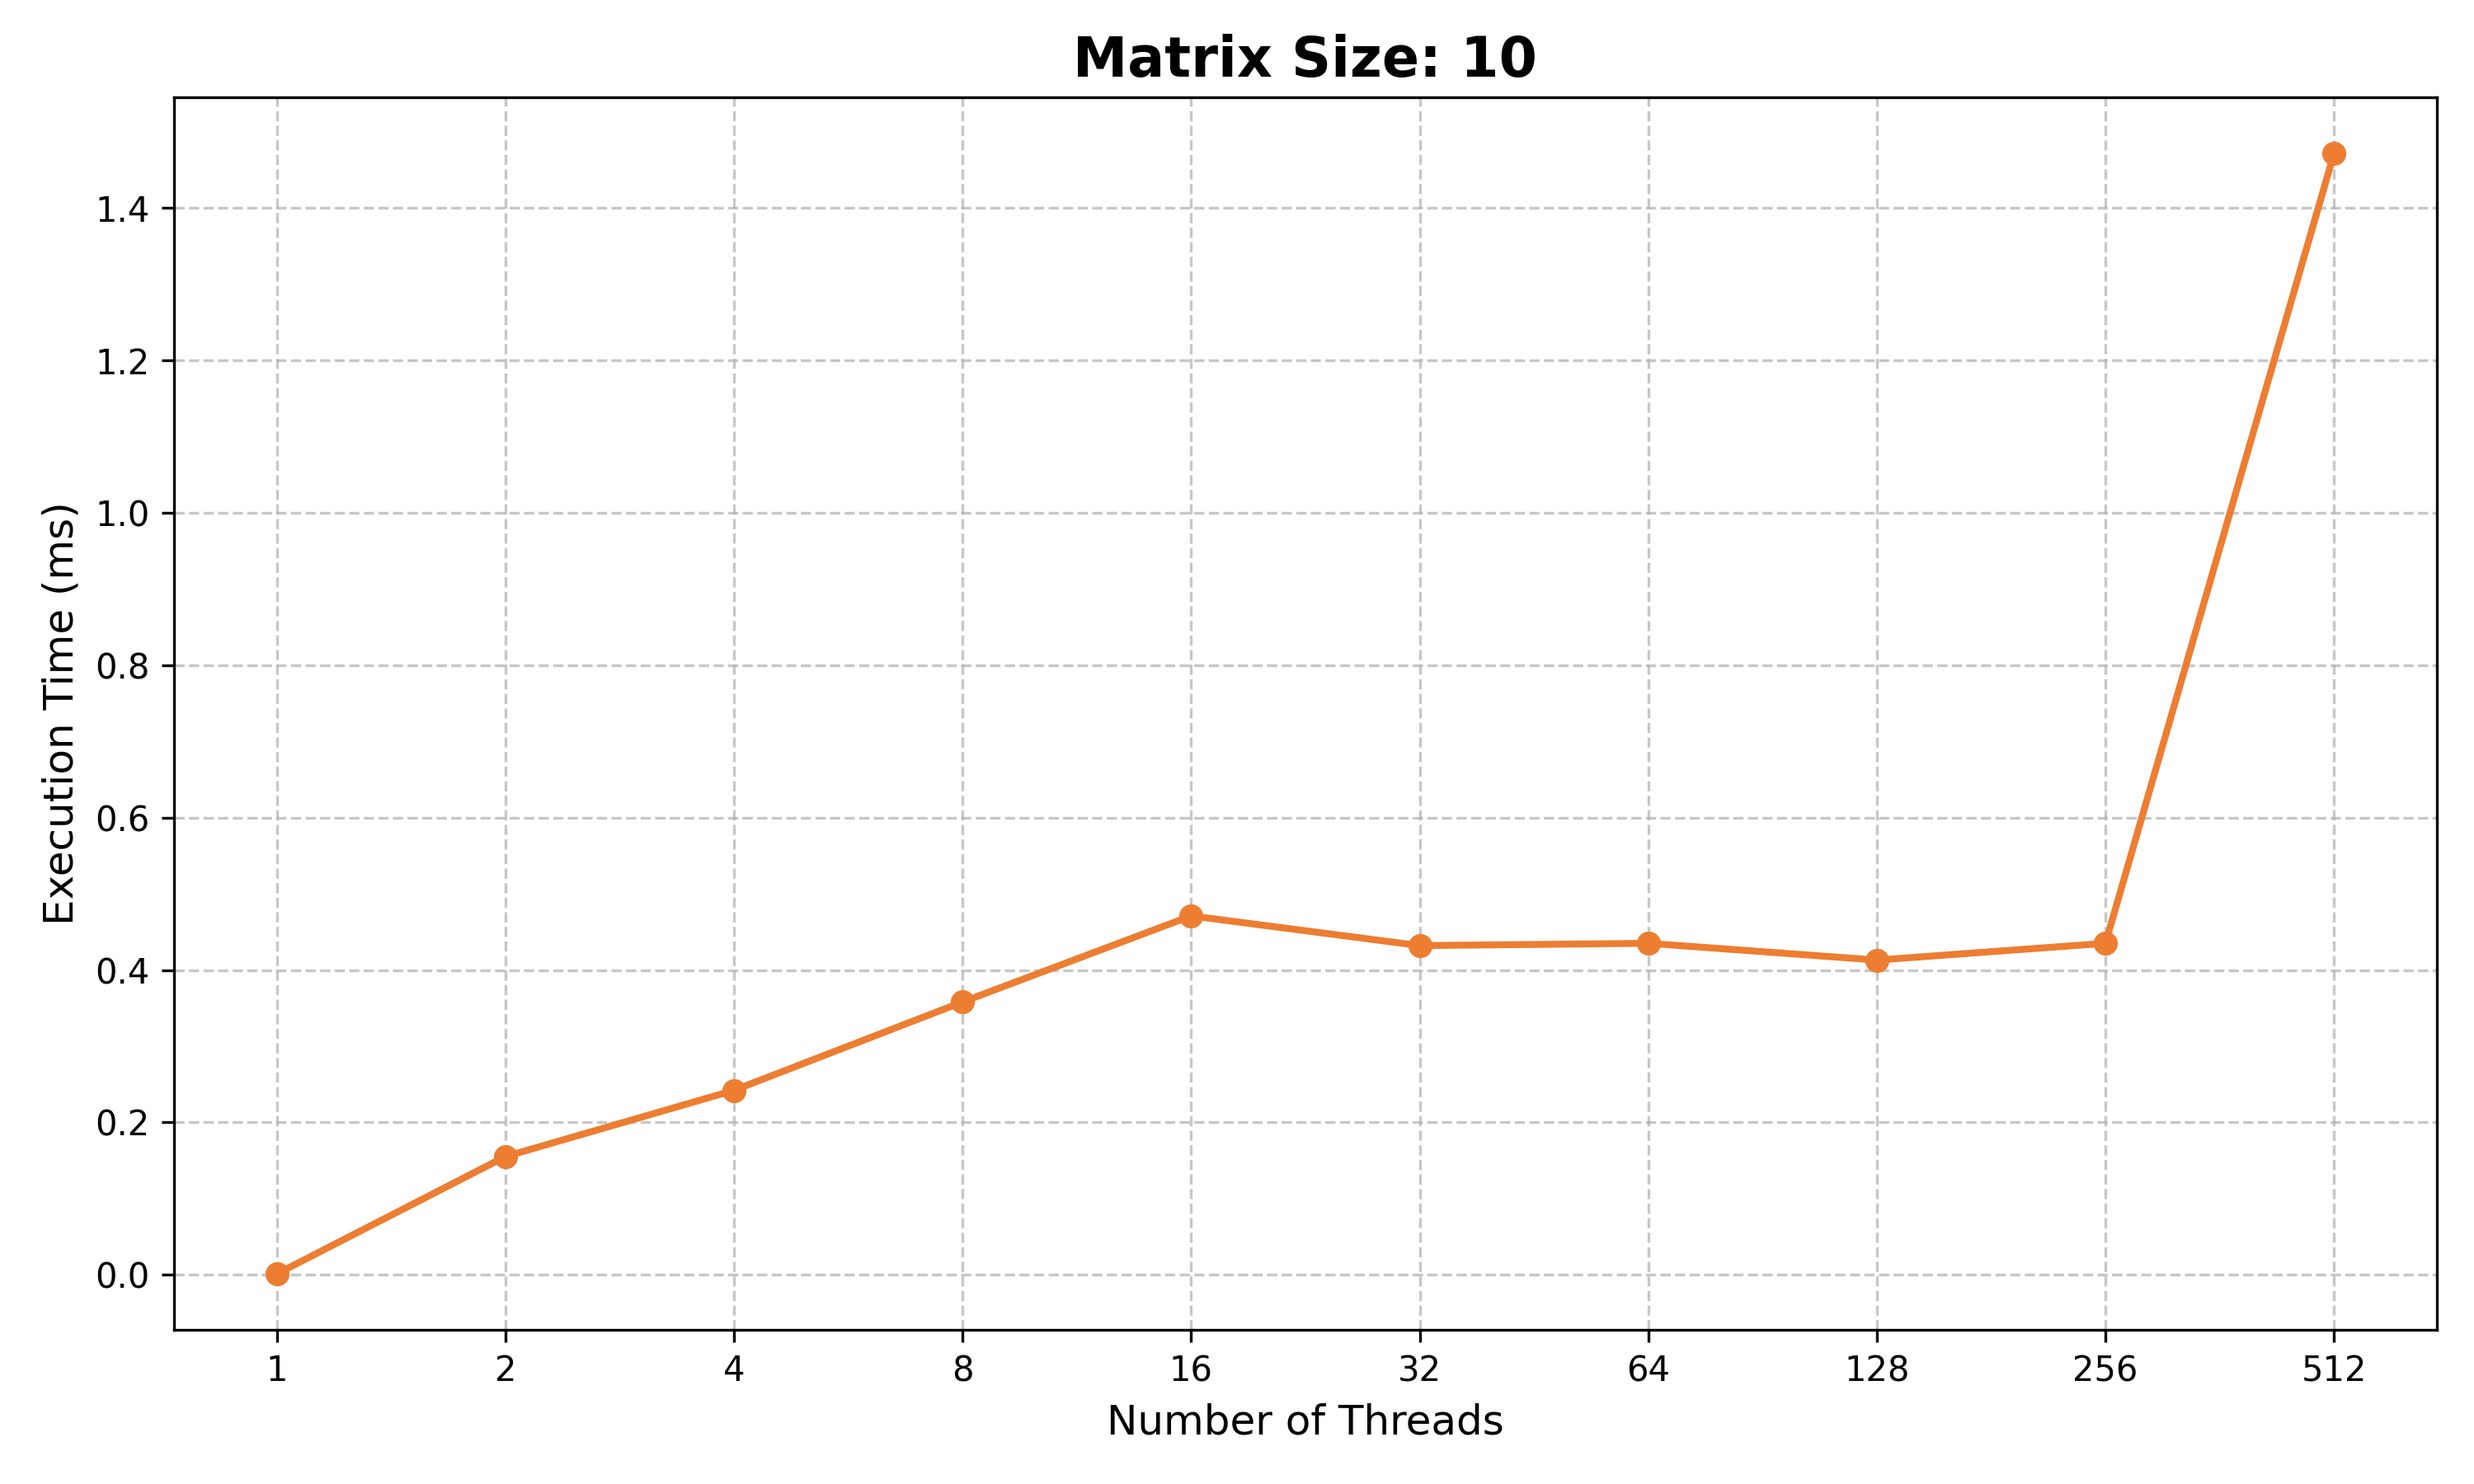
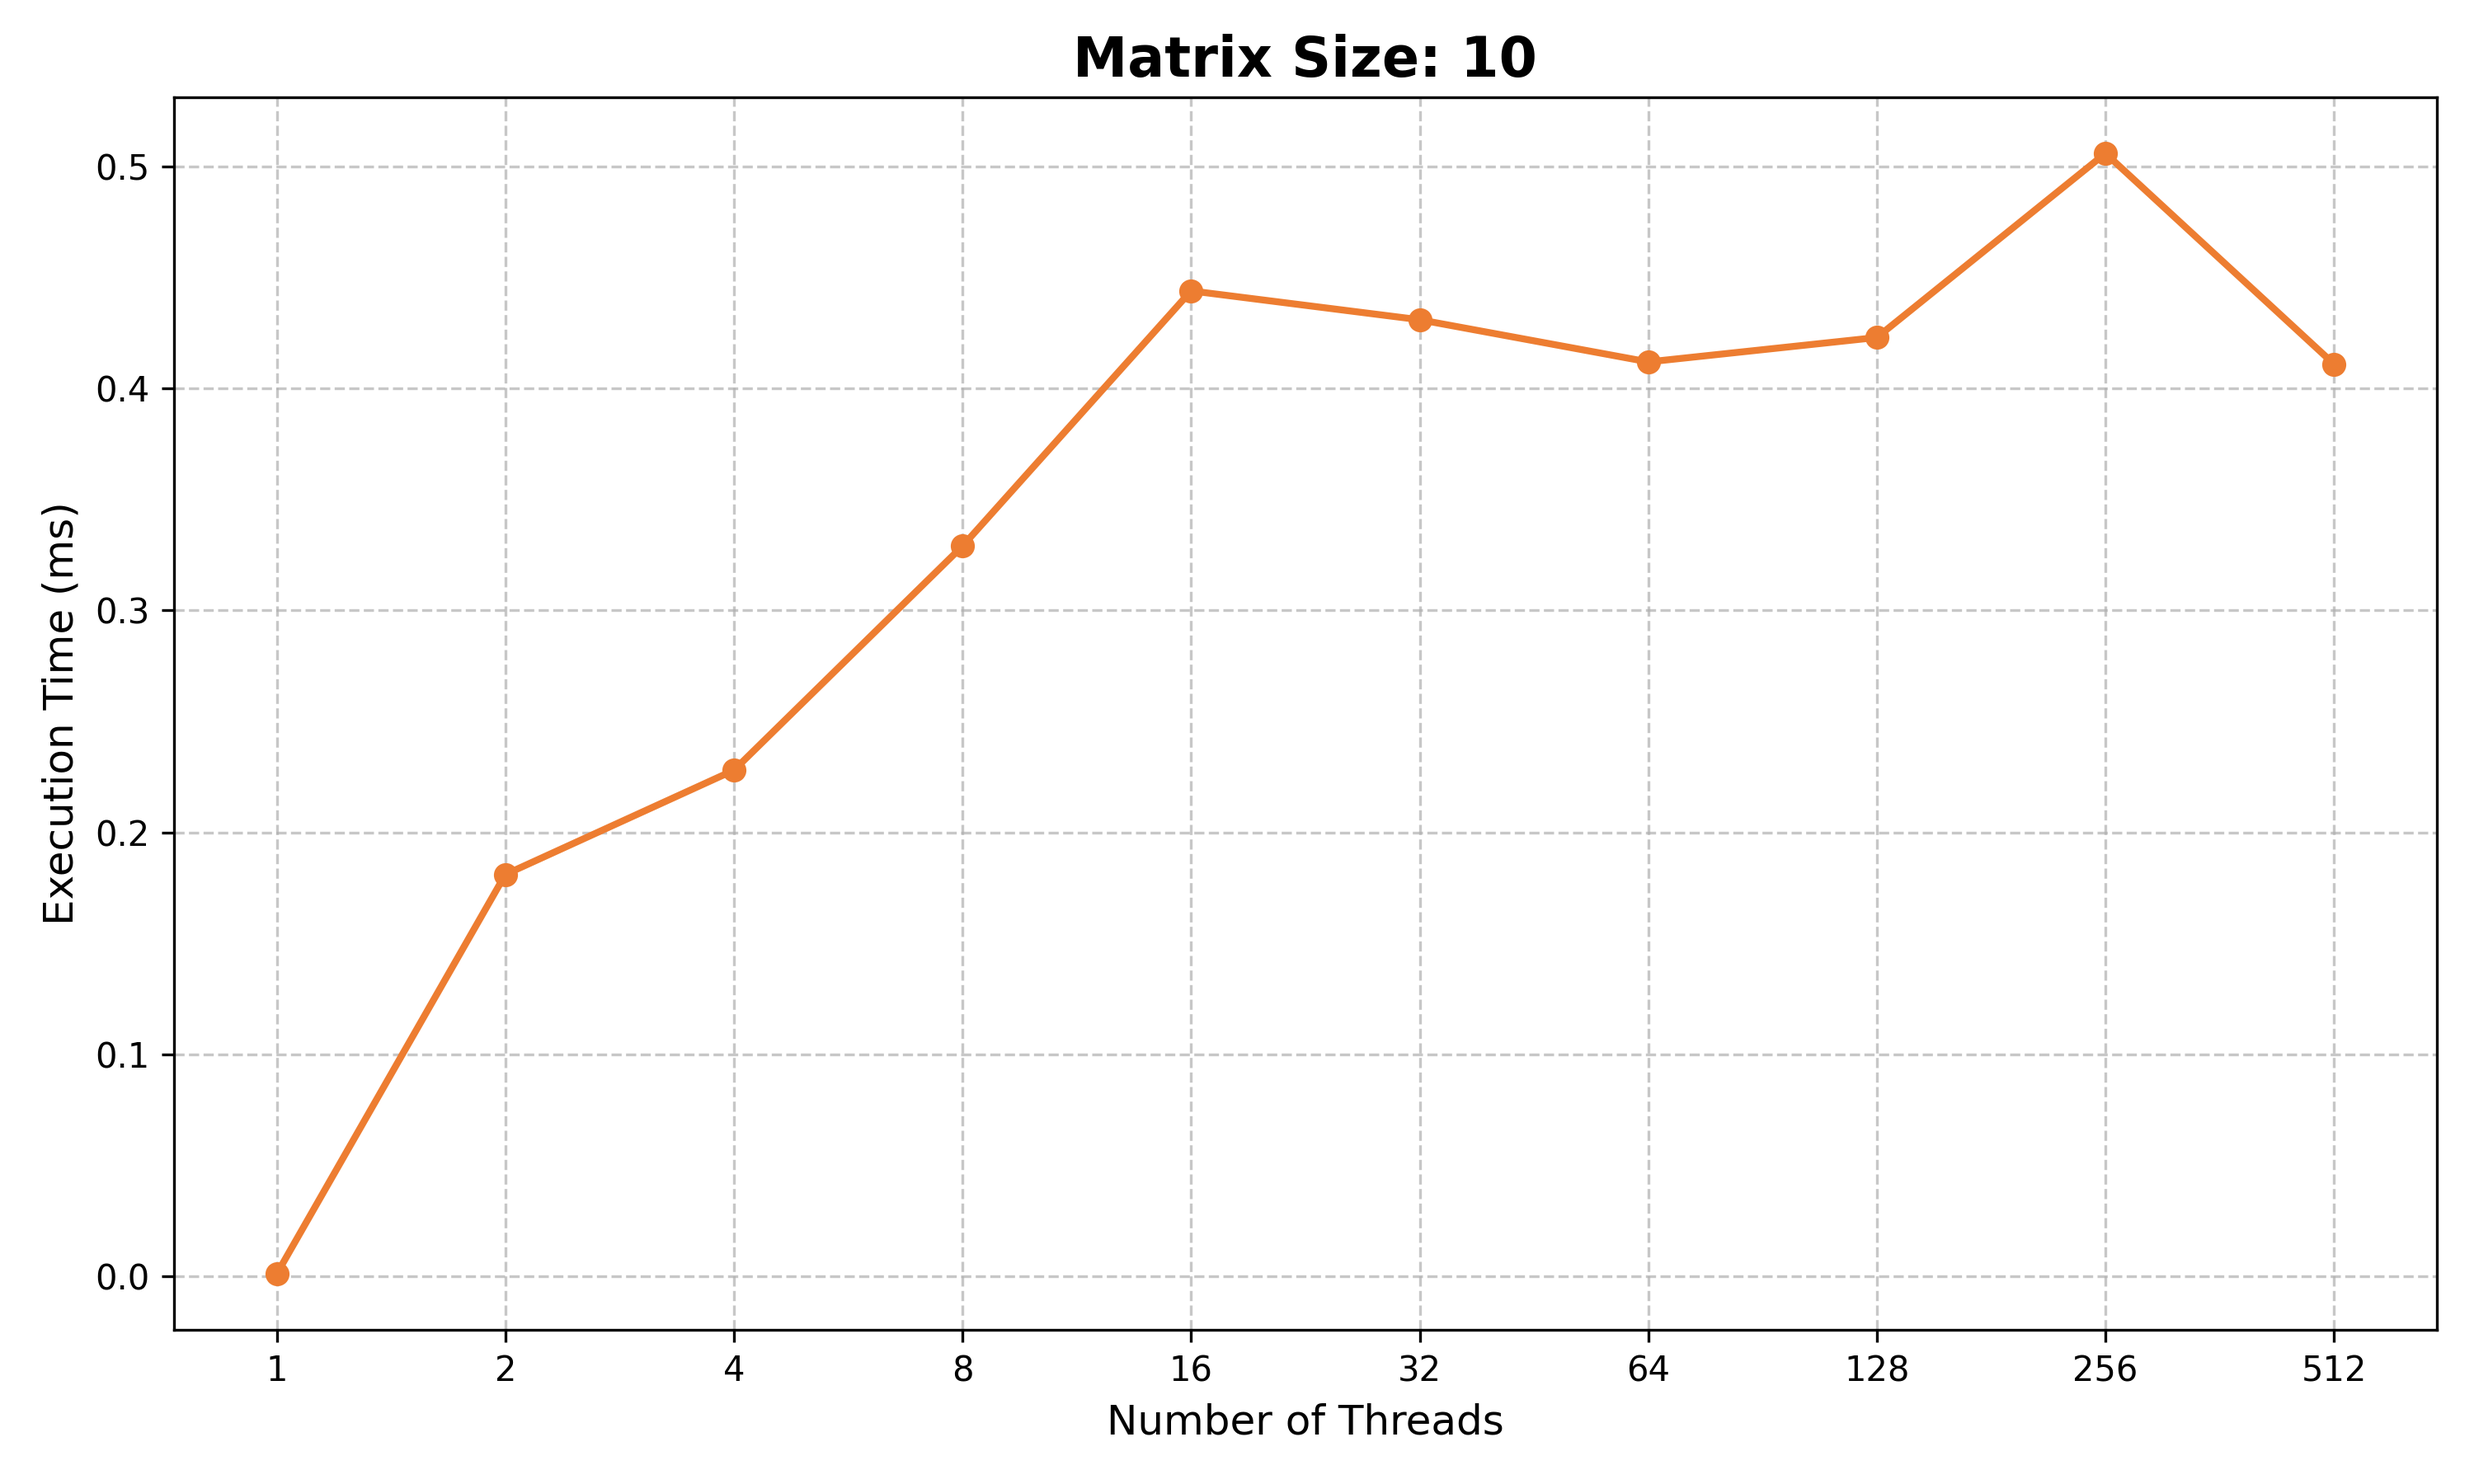
Add mechanism for preventing optimization in test runs and update results in release version

diff --git a/main.cpp b/main.cpp
@@ -50,6 +50,9 @@ long long max_without_parallelism(vector<vector<int>>& matrix) {
     }
 
     auto end = chrono::high_resolution_clock::now();
+
+    volatile int anti_optimization_sink = matrix[n-1][n-1];
+
     return chrono::duration_cast<chrono::microseconds>(end - start).count();
 }
 
@@ -98,6 +101,9 @@ long long max_with_parallelism(vector<vector<int>>& matrix, int num_threads)
     }
 
     auto end = chrono::high_resolution_clock::now();
+
+    volatile int anti_optimization_sink = matrix[n-1][n-1];
+
     return chrono::duration_cast<chrono::microseconds>(end - start).count();
 }
 
